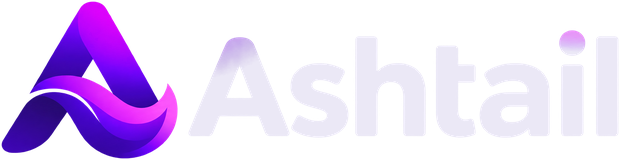
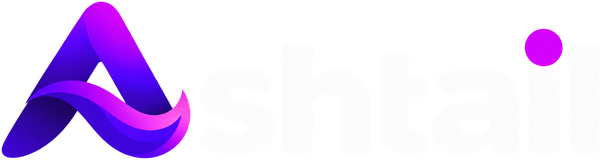
style: per-theme wordmarks and new A mark tile

Changed region(s): [[0.0, 0.0, 0.3289, 1.0], [0.8671, 0.1562, 0.9568, 0.4375], [0.3289, 0.2188, 0.4186, 0.4688]]

diff --git a/docs/ARCHITECTURE.md b/docs/ARCHITECTURE.md
@@ -494,12 +494,13 @@ screenshot pass.
   use hairline separators and headings are serif. First visit is light regardless of OS
   setting; the toggle stores the choice and a small script in
   `root.html.heex` applies it before paint.
-- Branding: the sticky top bar shows the "Ashtail" wordmark
-  (`priv/static/images/ashtail-wordmark.png`, with a light-lettered
-  `-dark` copy swapped in on the dark theme). The "A" mark alone
-  (`ashtail-mark-128.png`) is used for the favicon and touch icon. Sources
-  are `docs/images/logo.png` (mark) and `docs/images/logo-text.png`
-  (wordmark); the web sizes are resized from them.
+- Branding: the sticky top bar shows the "Ashtail" wordmark: purple
+  lettering (`priv/static/images/ashtail-wordmark.png`) on the light theme,
+  white lettering (`ashtail-wordmark-dark.png`) on the dark theme. The "A"
+  mark alone, a dark rounded tile (`ashtail-mark-128.png`), is the favicon
+  and touch icon. Sources are `docs/images/logo.png` (mark),
+  `logo-text-purple.png` and `logo-text-white.png`; the web sizes are
+  resized from them.
 - Fonts (Inter, Source Serif 4, JetBrains Mono) are self-hosted from
   `priv/static/fonts`, so the app works offline.
 - Shared pieces live in `components/`:
